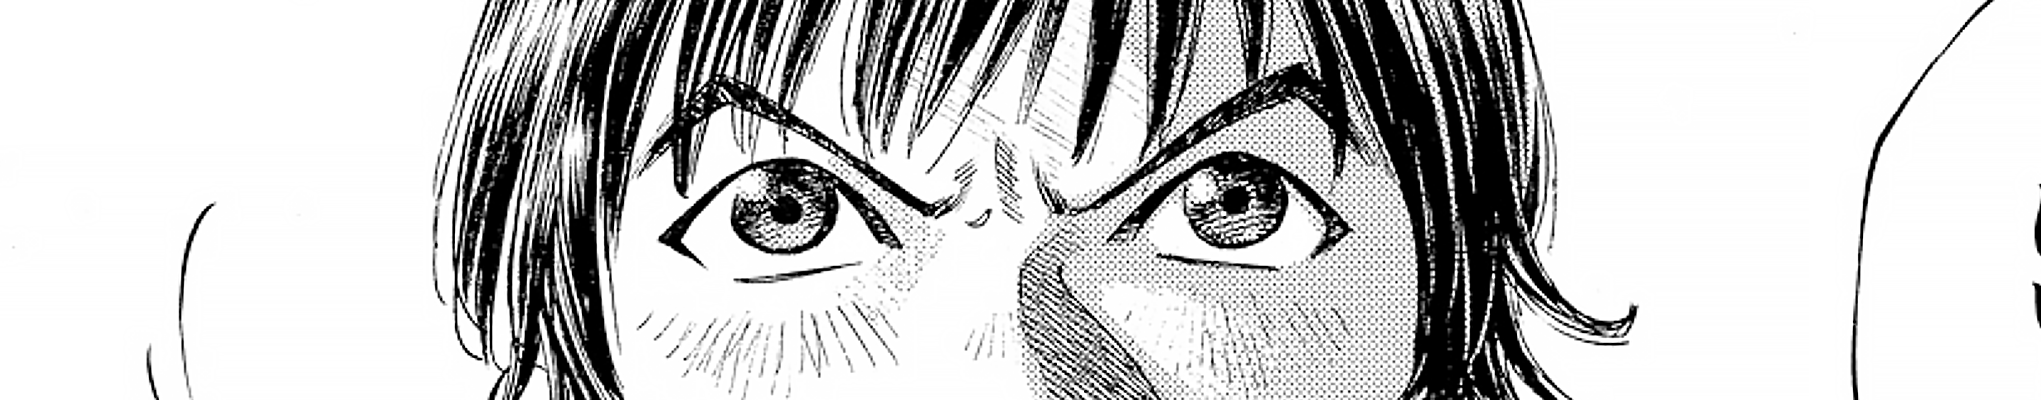
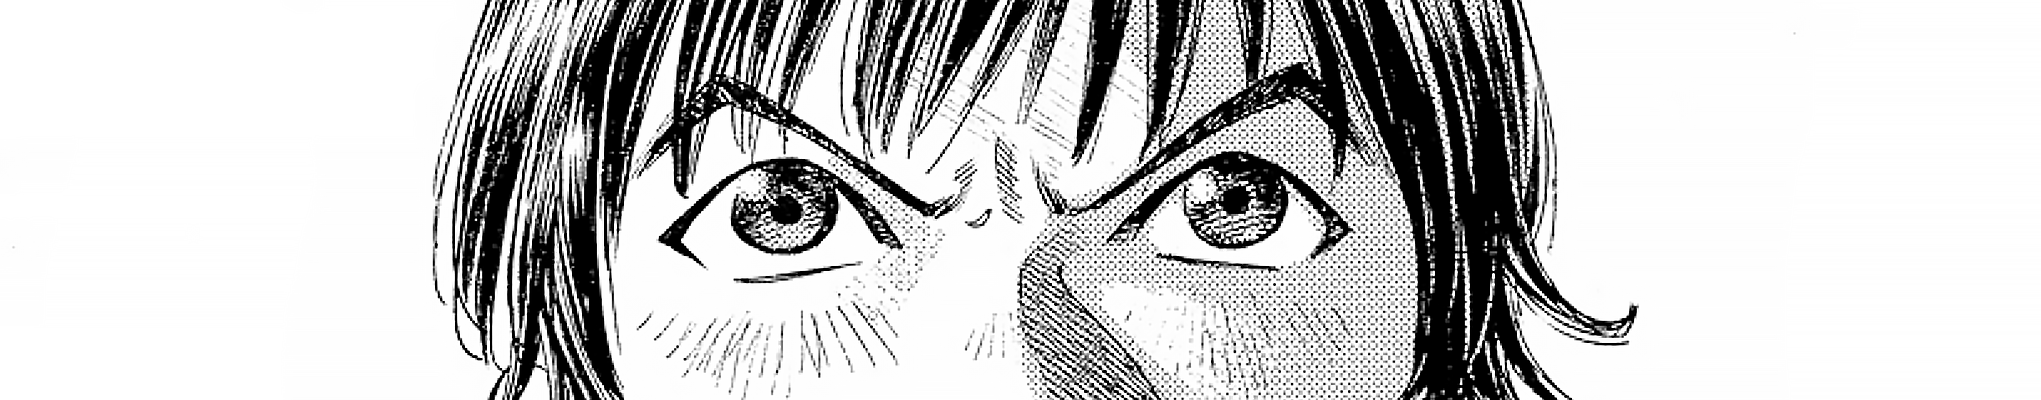
update

diff --git a/css/style.css b/css/style.css
@@ -503,7 +503,7 @@ img {
     background-image: url(../img/p13-2-pc.png);
   }
   .top__cuts .cut3 {
-    background-image: url(../img/p18-1-pc.png);
+    background-image: url(../img/p18-1-pc02.png);
   }
 
   .top__text-container {
